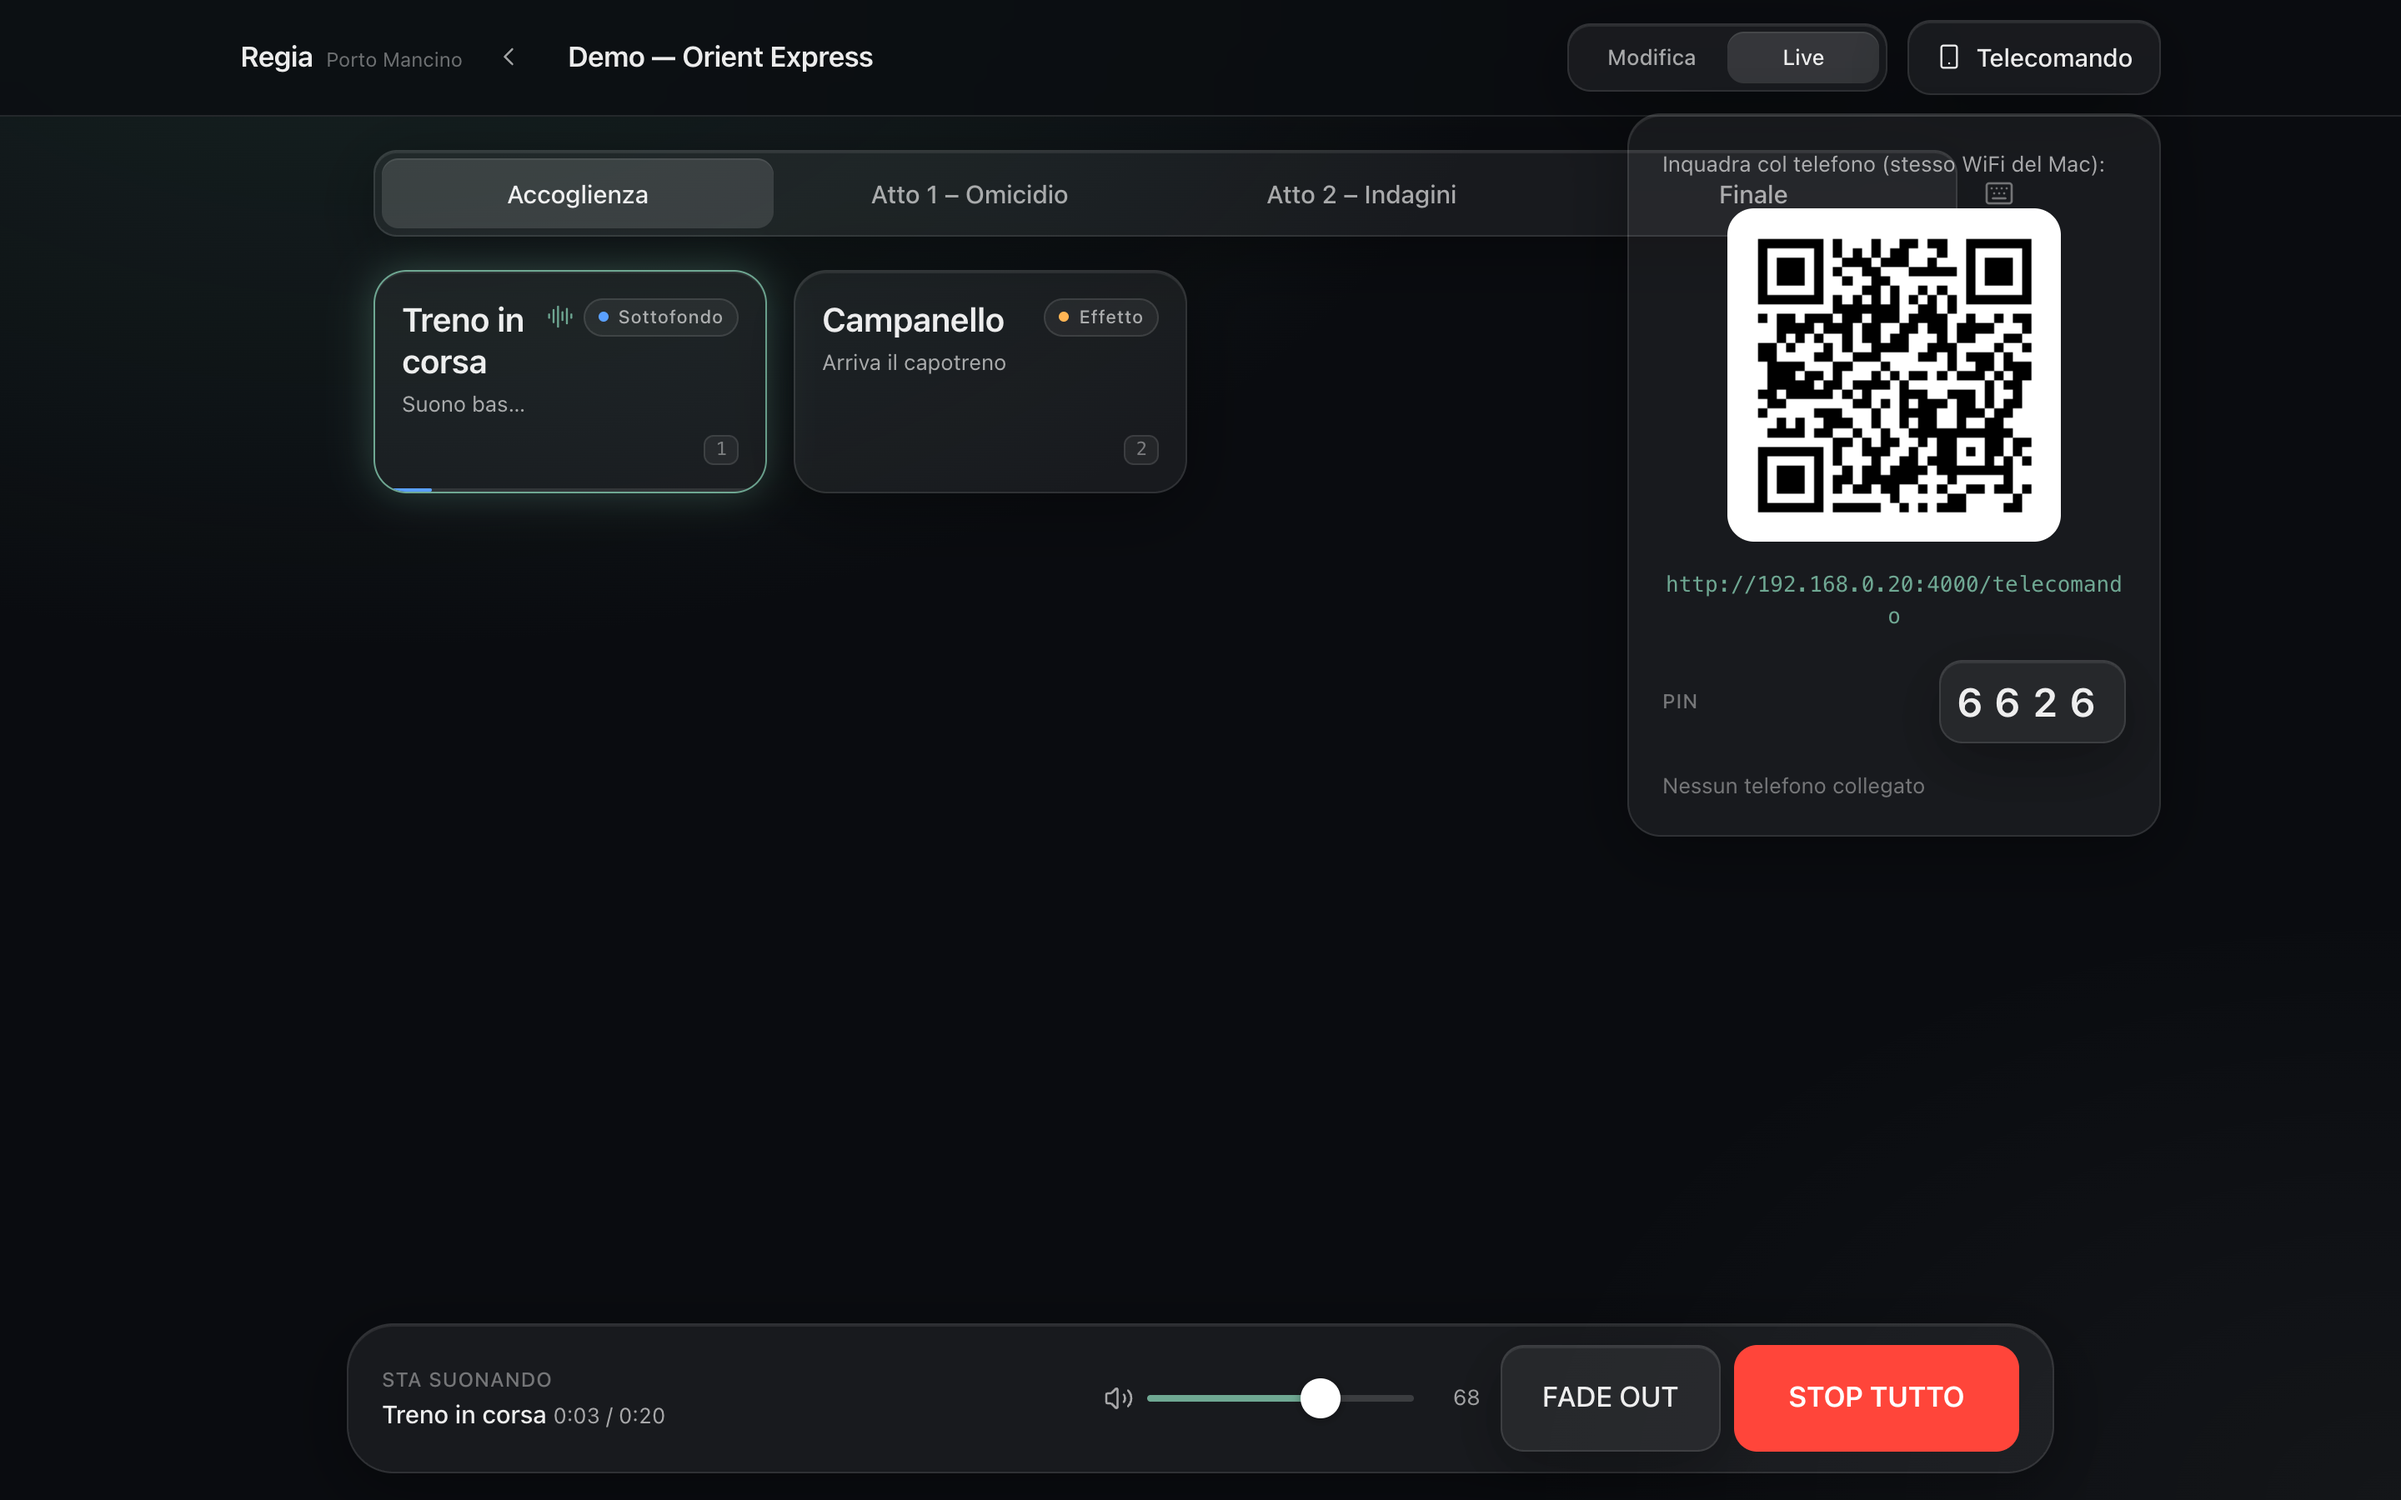
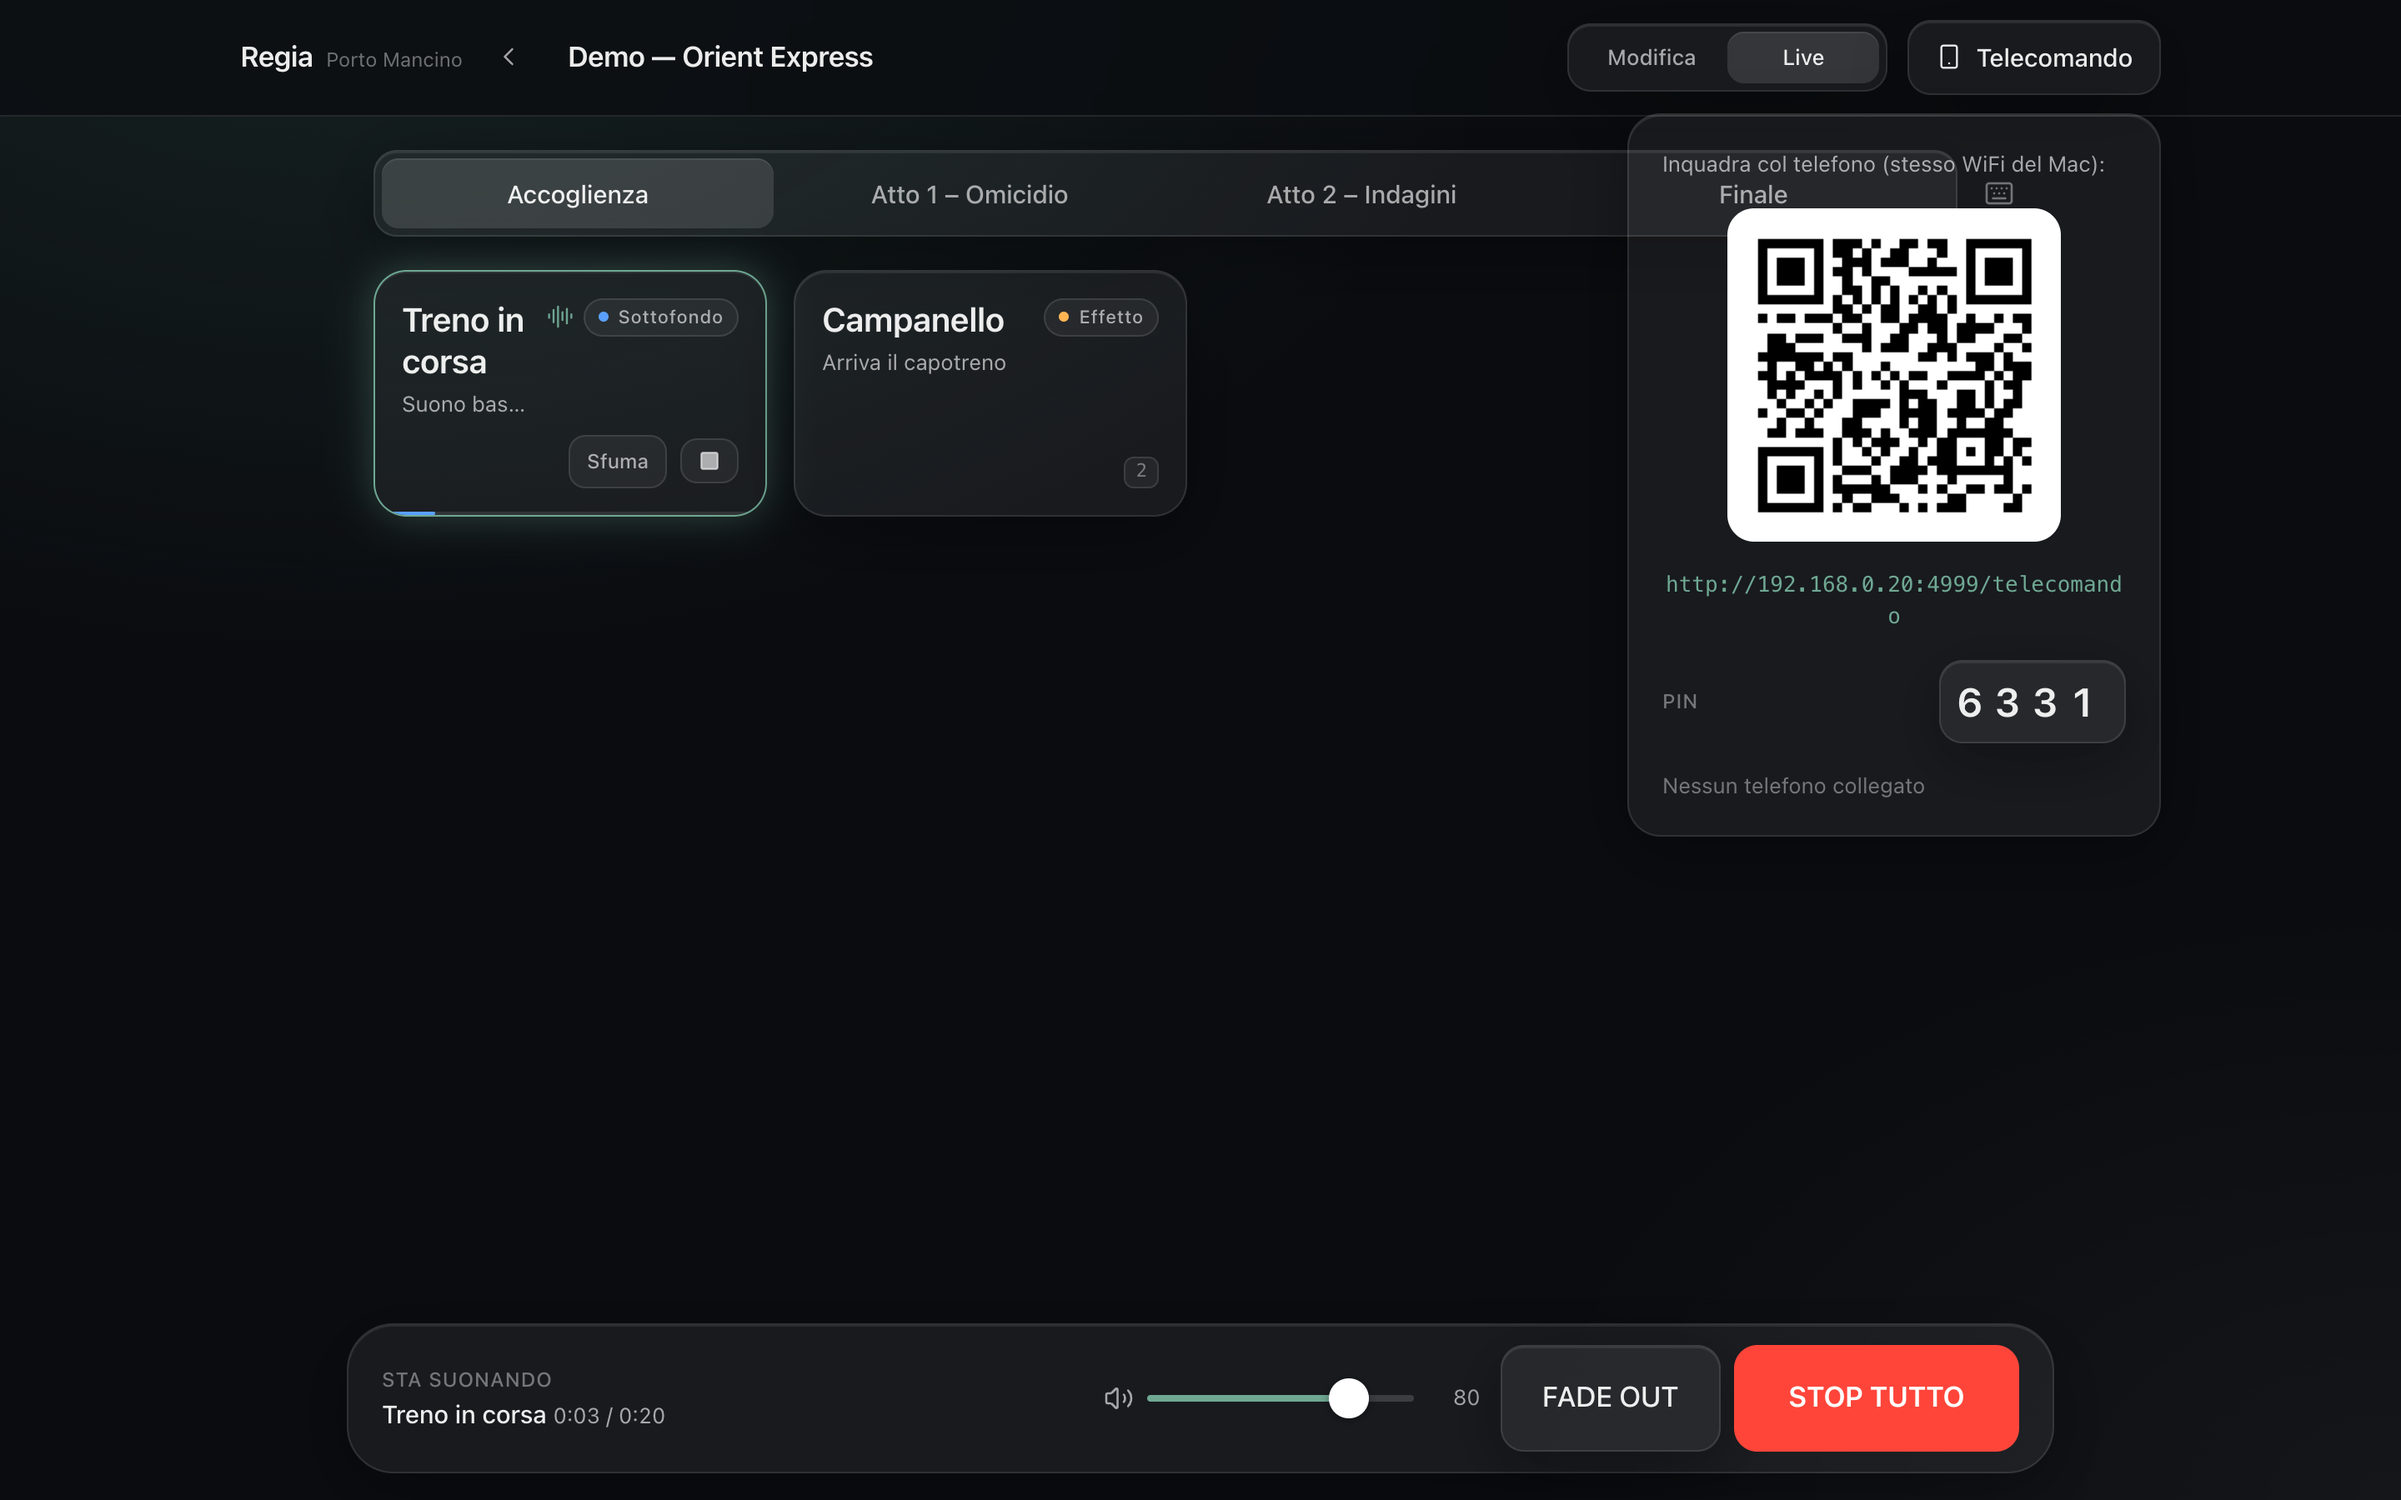
s2-bis: pulsanti Sfuma e Ferma sul singolo suono attivo
Nuova regola pura sfumaCue + comando WS 'sfuma' (server invariato:
inoltra i comandi come prima). Verifica e2e ermetica su porta di prova.

diff --git a/web/src/componenti/PulsanteCue.tsx b/web/src/componenti/PulsanteCue.tsx
@@ -1,5 +1,5 @@
 // Il pulsante grande di un cue nella vista Live (Mac e telefono).
-import { AudioLines } from "lucide-react";
+import { AudioLines, Square } from "lucide-react";
 import type { Cue, CueAttivo } from "../../../shared/tipi";
 import { coloreCue, NOMI_TIPO } from "../util";
 import { BarraAvanzamento } from "./ui/BarraAvanzamento";
@@ -9,6 +9,10 @@ export function PulsanteCue(props: {
   cue: Cue;
   attivi: CueAttivo[];
   onPremi: () => void;
+  /** Ferma subito questo suono (mostrato solo mentre suona). */
+  onFerma?: () => void;
+  /** Sfuma dolcemente questo suono (mostrato solo mentre suona). */
+  onSfuma?: () => void;
   disabilitato?: boolean;
   scorciatoia?: string;
   compatto?: boolean;
@@ -17,19 +21,29 @@ export function PulsanteCue(props: {
   const istanze = props.attivi.filter((a) => a.cueId === cue.id);
   const attiva = istanze[0];
   const colore = coloreCue(cue);
+  const spento = props.disabilitato || !cue.file;
   const avanzamento =
     attiva && attiva.durataSec && attiva.durataSec > 0
       ? Math.min(1, attiva.posizioneSec / attiva.durataSec)
       : 0;
 
   return (
-    <button
-      type="button"
-      disabled={props.disabilitato || !cue.file}
-      onClick={props.onPremi}
-      className={`vetro tocco relative flex flex-col justify-between overflow-hidden p-4 text-left disabled:opacity-40 ${
+    <div
+      role="button"
+      tabIndex={spento ? -1 : 0}
+      aria-disabled={spento}
+      onClick={() => {
+        if (!spento) props.onPremi();
+      }}
+      onKeyDown={(e) => {
+        if (!spento && (e.key === "Enter" || e.key === " ")) {
+          e.preventDefault();
+          props.onPremi();
+        }
+      }}
+      className={`vetro tocco relative flex cursor-pointer select-none flex-col justify-between overflow-hidden p-4 text-left ${
         props.compatto ? "min-h-[88px]" : "min-h-[112px]"
-      }`}
+      } ${spento ? "cursor-default opacity-40" : ""}`}
       style={
         attiva
           ? {
@@ -67,7 +81,34 @@ export function PulsanteCue(props: {
         {attiva?.inPausa && <Pillola>in pausa</Pillola>}
         {istanze.length > 1 && <span className="text-[12px] text-brand-chiaro">×{istanze.length}</span>}
         <span className="flex-1" />
-        {props.scorciatoia && (
+        {attiva && props.onSfuma && (
+          <button
+            type="button"
+            title="Sfuma questo suono"
+            onClick={(e) => {
+              e.stopPropagation();
+              props.onSfuma!();
+            }}
+            className="tocco rounded-[10px] border border-vetro-bordo bg-white/5 px-2.5 py-1.5 text-[12px] font-medium text-testo-2 hover:text-testo"
+          >
+            Sfuma
+          </button>
+        )}
+        {attiva && props.onFerma && (
+          <button
+            type="button"
+            title="Ferma subito questo suono"
+            aria-label="Ferma subito"
+            onClick={(e) => {
+              e.stopPropagation();
+              props.onFerma!();
+            }}
+            className="tocco flex items-center justify-center rounded-[10px] border border-vetro-bordo bg-white/5 px-2.5 py-1.5 text-testo-2 hover:text-testo"
+          >
+            <Square size={13} strokeWidth={2} fill="currentColor" />
+          </button>
+        )}
+        {!attiva && props.scorciatoia && (
           <kbd className="rounded-md border border-vetro-bordo bg-white/5 px-1.5 text-[11px] text-testo-3">
             {props.scorciatoia}
           </kbd>
@@ -78,6 +119,6 @@ export function PulsanteCue(props: {
           <BarraAvanzamento frazione={avanzamento} colore={colore} />
         </div>
       )}
-    </button>
+    </div>
   );
 }

diff --git a/shared/regole.test.ts b/shared/regole.test.ts
@@ -4,6 +4,7 @@ import {
   statoIniziale,
   premi,
   stop,
+  sfumaCue,
   finita,
   stopTutto,
   fadeOut,
@@ -251,6 +252,26 @@ describe("stop, stop tutto, fade out", () => {
     const ferma = azione(r.azioni, "ferma");
     expect(ferma).toHaveLength(3);
     for (const f of ferma) expect(f.rampMs).toBe(FADE_STOP_TUTTO_MS);
+    expect(r.stato.attivi).toHaveLength(0);
+  });
+
+  it("sfumaCue sfuma solo quel cue in fadeOutMs e ripristina il sottofondo", () => {
+    let r = premi(nuovo(), SOTTOFONDO);
+    r = premi(r.stato, BRANO_PAUSA);
+    r = sfumaCue(r.stato, "br1");
+    const ferma = azione(r.azioni, "ferma");
+    expect(ferma).toHaveLength(1);
+    expect(ferma[0]?.rampMs).toBe(1500); // il fadeOutMs delle impostazioni
+    // Il sottofondo era in pausa: riprende.
+    expect(azione(r.azioni, "riprendi")).toHaveLength(1);
+    expect(r.stato.attivi.map((i) => i.cueId)).toEqual(["sf"]);
+  });
+
+  it("sfumaCue su un effetto sfuma tutte le sue istanze", () => {
+    let r = premi(nuovo(), EFFETTO_NIENTE);
+    r = premi(r.stato, EFFETTO_NIENTE);
+    r = sfumaCue(r.stato, "fx2");
+    expect(azione(r.azioni, "ferma")).toHaveLength(2);
     expect(r.stato.attivi).toHaveLength(0);
   });
 

diff --git a/web/src/pagine/Regia.tsx b/web/src/pagine/Regia.tsx
@@ -94,6 +94,9 @@ export function PaginaRegia() {
         case "stop":
           m.stop(c.cueId);
           break;
+        case "sfuma":
+          m.sfuma(c.cueId);
+          break;
         case "fade":
           m.fadeOut();
           break;
@@ -220,6 +223,16 @@ export function PaginaRegia() {
     },
     [],
   );
+  const fermaCue = useCallback((cue: Cue) => {
+    const m = motoreRef.current;
+    if (m && sonoIlMotoreRef.current) m.stop(cue.id);
+    else wsRef.current?.invia({ tipo: "comando", comando: "stop", cueId: cue.id });
+  }, []);
+  const sfumaCueUi = useCallback((cue: Cue) => {
+    const m = motoreRef.current;
+    if (m && sonoIlMotoreRef.current) m.sfuma(cue.id);
+    else wsRef.current?.invia({ tipo: "comando", comando: "sfuma", cueId: cue.id });
+  }, []);
   const cambiaMaster = useCallback((v: number) => {
     setMasterUi(v);
     const m = motoreRef.current;
@@ -407,6 +420,8 @@ export function PaginaRegia() {
           attivi={attivi}
           onCambiaFase={cambiaFase}
           onPremi={premiCue}
+          onFerma={fermaCue}
+          onSfuma={sfumaCueUi}
           disabilitato={!motoreOnline}
         />
       )}

diff --git a/shared/regole.ts b/shared/regole.ts
@@ -216,6 +216,20 @@ export function stop(stato: StatoRegole, cueId: string): Risultato {
   return { stato: s, azioni };
 }
 
+/** Sfuma un singolo cue (tutte le sue istanze) in fadeOutMs, poi lo ferma. */
+export function sfumaCue(stato: StatoRegole, cueId: string): Risultato {
+  let s = stato;
+  const azioni: Azione[] = [];
+  for (const i of [...s.attivi]) {
+    if (i.cueId === cueId) {
+      const r = rimuovi(s, i.istanzaId, stato.fadeOutMs);
+      s = r.stato;
+      azioni.push(...r.azioni);
+    }
+  }
+  return { stato: s, azioni };
+}
+
 /** Il file è finito da solo (o il fade del motore si è completato). */
 export function finita(stato: StatoRegole, istanzaId: string): Risultato {
   const istanza = stato.attivi.find((i) => i.istanzaId === istanzaId);

diff --git a/server/src/api.ts b/server/src/api.ts
@@ -13,6 +13,7 @@ import type { Store } from "./store";
 import type { Hub } from "./ws";
 import { cartellaAudio, cartellaBackup, percorsoConfig } from "./percorsi";
 import { indirizzoLan } from "./rete";
+import { PORTA } from "./porta";
 
 const ESTENSIONI_AUDIO = new Set(["mp3", "wav", "m4a", "aac", "ogg"]);
 const ERRORE_FORMATO = "Formato non supportato, usa mp3 o wav";
@@ -440,7 +441,7 @@ export function registraApi(app: FastifyInstance, store: Store, hub: () => Hub |
     const ip = indirizzoLan();
     return {
       ip,
-      urlTelecomando: `http://${ip}:4000/telecomando`,
+      urlTelecomando: `http://${ip}:${PORTA}/telecomando`,
       pin: store.config.impostazioni.pin,
     };
   });

diff --git a/web/src/pagine/Live.tsx b/web/src/pagine/Live.tsx
@@ -11,6 +11,8 @@ export function Live(props: {
   attivi: CueAttivo[];
   onCambiaFase: (faseId: string) => void;
   onPremi: (cue: Cue) => void;
+  onFerma: (cue: Cue) => void;
+  onSfuma: (cue: Cue) => void;
   disabilitato?: boolean;
 }) {
   const fasi = [...props.format.fasi].sort((a, b) => a.ordine - b.ordine);
@@ -56,6 +58,8 @@ export function Live(props: {
               disabilitato={props.disabilitato}
               scorciatoia={i < 9 ? String(i + 1) : undefined}
               onPremi={() => props.onPremi(c)}
+              onFerma={() => props.onFerma(c)}
+              onSfuma={() => props.onSfuma(c)}
             />
           ))}
         </div>

diff --git a/web/src/pagine/Telecomando.tsx b/web/src/pagine/Telecomando.tsx
@@ -338,6 +338,8 @@ export function PaginaTelecomando() {
             attivi={stato?.attivi ?? []}
             disabilitato={!motoreOnline}
             onPremi={() => premi(c)}
+            onFerma={() => invia({ tipo: "comando", comando: "stop", cueId: c.id })}
+            onSfuma={() => invia({ tipo: "comando", comando: "sfuma", cueId: c.id })}
           />
         ))}
         {cue.length === 0 && <p className="text-testo-2">Nessun suono in questa fase.</p>}

diff --git a/shared/tipi.ts b/shared/tipi.ts
@@ -76,6 +76,7 @@ export interface StatoLive {
 export type Comando =
   | { tipo: "comando"; comando: "play"; cueId: string }
   | { tipo: "comando"; comando: "stop"; cueId: string }
+  | { tipo: "comando"; comando: "sfuma"; cueId: string }
   | { tipo: "comando"; comando: "fade" }
   | { tipo: "comando"; comando: "stopTutto" }
   | { tipo: "comando"; comando: "master"; valore: number }

diff --git a/web/src/motore/motore.ts b/web/src/motore/motore.ts
@@ -5,6 +5,7 @@ import {
   statoIniziale,
   premi,
   stop,
+  sfumaCue,
   stopTutto,
   fadeOut,
   master,
@@ -104,6 +105,10 @@ export class MotoreAudio {
 
   stop(cueId: string): void {
     this.applica(stop(this.stato, cueId));
+  }
+
+  sfuma(cueId: string): void {
+    this.applica(sfumaCue(this.stato, cueId));
   }
 
   stopTutto(): void {

diff --git a/server/src/index.ts b/server/src/index.ts
@@ -4,7 +4,7 @@ import { creaApp } from "./app";
 import { indirizzoLan } from "./rete";
 import { cartellaDati } from "./percorsi";
 
-const PORTA = 4000;
+import { PORTA } from "./porta";
 
 async function avvia(): Promise<void> {
   const { app, store, avviaHub } = creaApp();

diff --git a/server/src/porta.ts b/server/src/porta.ts
@@ -1,0 +1,2 @@
+// La porta del server: 4000, oppure la variabile PORT (usata dai test end-to-end).
+export const PORTA = Number(process.env.PORT || 4000);

diff --git a/docs/SESSIONS_LOG.md b/docs/SESSIONS_LOG.md
@@ -51,6 +51,17 @@ Solo interfaccia, zero logica: regole audio, server, WebSocket e formato dati in
   e ignora i comandi. Sistemarlo richiede un battito applicativo nel protocollo WS
   (vietato in S2): da fare in una prossima sessione.
 
+## S2-bis — 23 settembre 2026 — Sfuma/Ferma sul singolo suono
+
+Sui pulsanti attivi (Mac e telefono) compaiono due comandi: **Sfuma** (sfuma quel
+solo suono nel tempo di fade delle impostazioni) e **■** (lo ferma subito). Nuova
+funzione pura `sfumaCue` in shared/regole.ts (+2 test, ora 40), nuovo comando WS
+"sfuma" (il server inoltra i comandi così com'erano, nessuna logica nuova lato
+server). Il server ora legge la variabile `PORT` (default 4000): serve alla
+verifica end-to-end, che ora avvia un SUO server su porta 4999 con dati temporanei
+— così una finestra Regia dell'utente rimasta aperta non falsa più i risultati.
+29/29 controlli end-to-end.
+
 ## S1-bis — 23 settembre 2026 — cartella dati
 
 La cartella dati di default è ora **`~/Regia-dati` su qualsiasi Mac** (prima era
